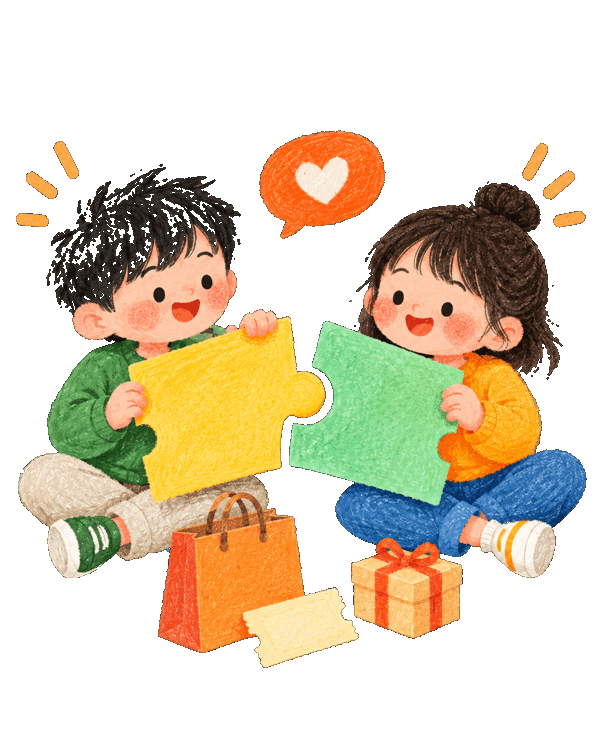
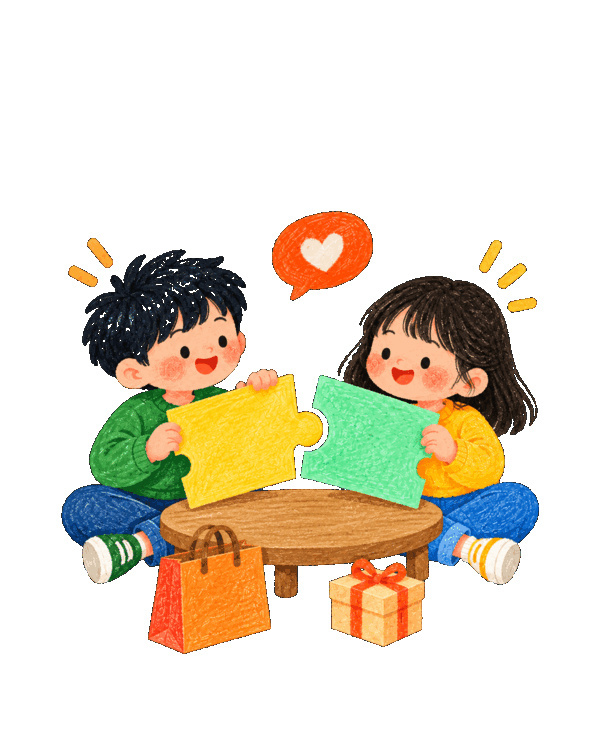
fix: regenerate benefit art at unified scale

diff --git a/.ccg/spec/frontend/index.md b/.ccg/spec/frontend/index.md
@@ -14,7 +14,7 @@
 - TabBar 固定为“首页 / 发现 / 发布 / 消息 / 我的”五栏；为避免迁移风险，`pages/discover/index` 保持首页物理路由，`pages/community/index` 保持发现物理路由。“发布”保持第 3 项视觉中心，“消息”固定在发布与我的之间。底栏使用微信官方 `custom-tab-bar`，五个 Tab 页必须在 `onShow` 同步选中态。
 - 首页使用 `#F9F7F2` 暖米白生活方式视觉，正文顺序固定为动态头像昵称问候栏、生活方式 Hero、与 Hero 负边距叠放的三张快捷卡、真实活动流。首页不渲染“已展示全部”类终点文案。搜索仅使用 Hero 内右对齐锚定浮层，不得再在快捷卡下方插入搜索或类型筛选面板：标准屏浮层为 `340×64rpx`、定位 `top: 116rpx; right: 38rpx`，320px 为 `290×58rpx`、定位 `top: 98rpx; right: 28rpx`；弹出时禁止键盘顶推页面并用透明遮罩阻断底层误触，提交后保持展开，外部点击或再次点击搜索按钮收起。Hero 固定使用标准屏 `709rpx`、320px `652rpx` 的参考图主视觉占高，并加载无障碍隐藏的本地透明正式插画；图片必须保持 `aspectFit`，不得裁切人物、拼图或场景边缘，也不得再次改变页面骨架。三张快捷卡固定为“组队拼团 / 看看大家都在聊什么”“琐碎回忆 / 记录第一次成团”“暂定 / 模块占位”；第一张锚定活动流，第二张只提示分享功能尚未上线，第三张必须为不可点击占位。不得伪造天气、通知、邻里图片或统计。活动流使用显式 `variant="home-preview"` 的三列紧凑卡：网格必须占满与 Hero 相同的正文宽度并使用三列 `minmax(0, 1fr)` 弹性均分，标准屏间距 `21rpx`，320px 间距 `12rpx`，确保左右边界在任意真机视口下与 Hero 对齐；活动卡宽高必须保持 `1:1.25`，视觉只展示真实发起人、日期、两行标题、受控类型插画与名额，类型、状态、完整时间和地点继续进入整卡聚合读屏文案。系统大字模式降级为单列流式卡。首页首批与每次“查看更多”均最多读取 3 条，并按不透明游标原位去重追加完整一行，不伪造总页数，也不保留上一页/下一页离散分页。真实 UGC 契约上线前，首页不挂载“成团记忆”模块，也不得把活动事实包装为用户分享；已定稿视觉方案见 `archive/formed-memory-editorial-v1.md`。
 - 发现 Tab 使用同源暖米白背景和黑色状态栏文字，顶部为 `PINBA DISCOVER` 标识、发现标题与黑色发帖胶囊，下接只读发现守则、单一真实“正在发生”栏目和白色纯文字帖子流。不得伪造热门话题、分区、置顶、浏览量、帖子配图或“新回 / 我发 / 我赞”等无数据源 Tab。帖子正文默认最多三行并支持连续字符断行，整卡是唯一详情导航热区，底部只展示真实点赞数与回复数；列表头像继续使用昵称首字与受控低饱和色盘。顶部继续复用页面根节点 `contentTopInset`，不得重复叠加状态栏高度。
-- 发布 Tab 使用深蓝纸纹沉浸背景、紧凑手绘标题和每行两个模块的双列自动换行网格；“拼同行 / 拼运动 / 拼饭桌”整卡直接进入对应表单，不叠加搜索、筛选 Chip 或重复详情卡。奇数个模块的末项保持左对齐，不渲染伪占位卡；双列卡片继续保持原画廊约 304:430 的纵向比例、完整画布插画与原有图文层级，不得为了压缩首屏把场景插画缩成底部小图标。仅在存在真实且有意义的本地草稿时展示最近草稿快捷条，底部保留轻量安全边界提示；装饰插画退出事件与无障碍树，整卡提供完整入口语义。
+- 发布 Tab 使用深蓝纸纹沉浸背景、紧凑手绘标题和每行两个模块的双列自动换行网格；“拼同行 / 拼运动 / 拼饭桌”整卡直接进入对应表单，不叠加搜索、筛选 Chip 或重复详情卡。奇数个模块的末项保持左对齐，不渲染伪占位卡；双列卡片继续保持原画廊约 304:430 的纵向比例、完整画布插画与原有图文层级，不得为了压缩首屏把场景插画缩成底部小图标。模块插画统一从生图与导出阶段使用 600×750 透明画布并校准主体安全框；同为横向双人场景时，有效主体参考约 480×440px、左上约 60×210px，默认共用基础插画槽位，不为单卡追加补偿性缩放。仅在存在真实且有意义的本地草稿时展示最近草稿快捷条，底部保留轻量安全边界提示；装饰插画退出事件与无障碍树，整卡提供完整入口语义。
 - 三类发布表单共用一个沉浸式动态页面：深蓝纸纹覆盖完整视口，使用自定义返回导航并复用胶囊安全区计算；顶部不显示“发布……”页面标题，返回操作仅显示无底色、无边框箭头，但继续保留完整触控热区与无障碍名称。正文只显示类型副标，不重复渲染页面大标题或旧品牌图。通用、专属、时间人数和安全规则使用奶油白纸片分组，场景差异仅体现在副标、章节标记和选中 Chip；底部固定提交栏必须为正文预留完整滚动安全区，所有输入控件统一配置键盘顶升与光标间距。
 - 澳门校园拼车发布采用单页长表单，顺序固定为路线、出发时间、容量与个人行李、本人电话、补充说明与安全协议；不再展示步骤进度条或上一步/下一步。公开标题由固定路线确定性生成，报名截止由提交适配层设为接车时间窗开始前一秒，保持现有通用活动契约且无需用户填写。
 - “我的”使用受控头像放大柔化形成静态沉浸背景，叠加头像、昵称、成年标签、兴趣摘要和发起/加入/成团三项真实统计；沉浸背景必须从视口顶部通顶，页面根节点不得用 `contentTopInset` 推开整块背景，安全区只由头部内容层承担。页面根节点上下内边距必须显式归零，底部 TabBar 与 Safe Area 避让只由白色内容面板承担，避免重复留白露出全局纸纹。顶部优先展示待审批、已成团和即将开始任务，无待办时整行折叠。下半区使用白色大圆角内容面板与“发起 / 参与 / 成团 / 历史”四栏活动时间线，不新增关注、粉丝、奖牌、评价或俱乐部等无事实源字段。

diff --git a/.ccg/tasks/archive/2026-09/regenerate-benefit-art-unified/review.md b/.ccg/tasks/archive/2026-09/regenerate-benefit-art-unified/review.md
@@ -1,0 +1,7 @@
+# 审查结果
+
+- 重新生图时以拼饭桌为主要人物尺度与场景密度参考，以拼同行、拼运动为辅助风格参考。
+- 最终资产为 600×750 透明 PNG；有效主体边界为 478×443px、左上坐标约 61×211px，与拼同行的 494×441px、54×219px 基本一致。
+- 拼享惠已取消单卡专属缩放，重新使用四张卡共用的基础 type-card-art 槽位。
+- 页面结构、业务状态和交互未改变；专项测试与项目结构检查通过。
+- 全量测试仍为 327 项中 319 pass、7 fail、1 historical skip；7 项均为既有拼饭桌原样搬入冲突，本次未新增失败。
